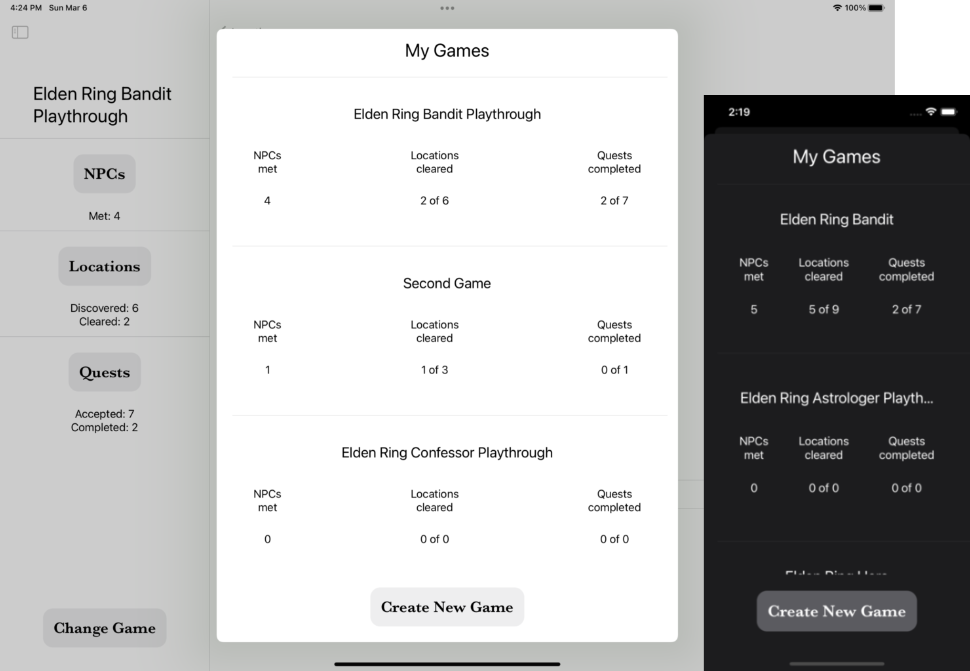
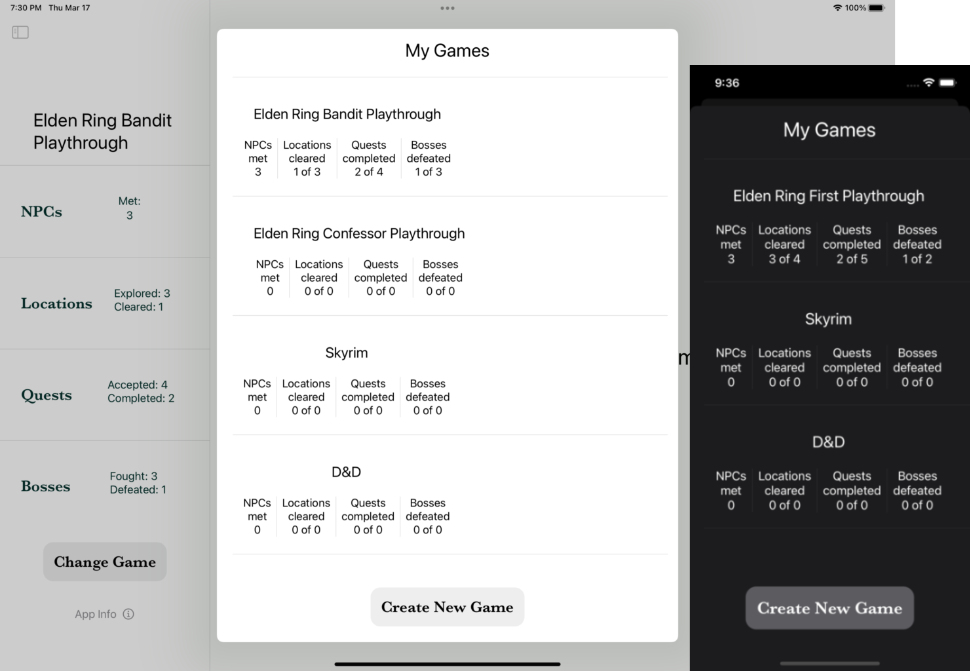
Add bosses to website, update screenshots, update feature requests

diff --git a/content/app/track-bosses/index.md b/content/app/track-bosses/index.md
@@ -1,0 +1,65 @@
+---
+title: "Track Bosses in your favorite RPGs"
+subtitle: "Details on tracking Bosses with the Shattered Ring app."
+excerpt: "Find out how you can use the Shattered Ring iOS App to track Bosses in your favorite
+RPGs."
+date: 2022-03-03
+author: "Dachary Carey"
+draft: false
+# tags:
+#   - style
+# categories:
+#   - Theme Features
+# layout options: single, single-sidebar
+layout: single
+---
+
+![Screenshot of Boss list on Shattered Ring app, iPad & iPhone](featured.png)
+
+Track bosses in Elden Ring, another RPG game, or your regular D&D game. You 
+can add notes for a boss, see the boss's location, and filter by 
+defeated or undefeated bosses.
+
+## View Bosses at-a-glance in the Boss list
+
+![Screenshot of Boss list on Shattered Ring app, iPhone](boss-list-dark-mode-simulator-cropped.png)
+
+From the Boss list, you can easily browse bosses and see at-a-glance which ones
+you have defeated. You can view all bosses by default, or filter the list to see 
+only defeated or undefeated bosses. A green crown icon at the right of a boss row 
+indicates the boss is defeated.
+
+The search field lets you find Bosses by name, _and_ it also searches the text of the 
+notes you've added for each boss. Read online about a legendary piece of loot a boss
+drops but aren't tough enough to beat it yet? Jot down the drop in the boss's notes
+and you can find which boss dropped it later by searching for it.
+
+## Track important Boss details
+
+![Screenshot of Boss details on Shattered Ring app, iPhone](boss-detail-light-mode-simulator-cropped.png)
+
+The Boss view is where you can store details about the bosses you're tracking. 
+
+The top part of the boss view contains a clickable toggle to keep track of whether you've defeated the boss.
+
+Below that, you'll see a boss's location, if you've added one. When you add a boss's location, you can 
+choose from an existing [Location](/app/track-locations/), or create a new one. Bosses only have one location.
+
+And finally, you'll see notes associated with your boss. You can add or edit notes from here. 
+The note area is a scrollable field, so there's no end to how much text you can have in the notes 
+for each boss.
+
+## Easily enter new Bosses
+
+![Screenshot of form to create a new Boss on Shattered Ring app, iPhone](new-boss-light-mode-simulator-cropped.png)
+
+Because Shattered Ring is a spoiler-free tracking app that does not come with pre-loaded data,
+I've made it as easy as possible to add details while you play.
+
+From the Boss list, click the plus icon in the upper-right corner of the screen to create a new boss. 
+
+In the new boss form, you can add a name, flip a toggle if the boss is defeated, and hit the `Create Boss` button. You can also add notes when you create the boss, or you can go back later and add them when viewing boss details.
+
+After you create the boss, you can go to the boss's detail view to add a location.
+
+If you create the boss from the location view, the boss is automatically populated with the location whose view you created the boss from.

diff --git a/content/faq/index.md b/content/faq/index.md
@@ -51,18 +51,21 @@ or send us an email via [the Support form](/contact/) to request a feature.
 When I have time to add new features to the app, I'll put up a Twitter
 poll to help me prioritize which features to add first.
 
-Currently, features that have been requested include (updated March 13, 2022):
+Currently, features that have been requested include (updated March 17, 2022):
 
 - Preload NPC, Location and Quests data for users to check off
 - Support for adding photos to NPCs, Locations and Quests
-- Add ordering for lists (alphabetical, and/or potentially the ability to move items in lists manually)
 - Link characters/locations/quests to their respective Wiki entries
-- Add the ability to track Bosses to the app
 - Add the ability to track Regions, with Locations belonging to a Region
-- Translate the Shattered Ring app to other languages
+- Translate the Shattered Ring app to other languages (so far I've had requests for Italian and French)
+- Add the ability to track Items, possibly with types like Weapon, Consumable, Key Item, Equipment, Spell, etc. Link them to locations and/or NPC merchants.
+- When adding a merchant, have a separate section for the merchant's inventory versus general notes.
+- Add types to locations, such as caves, forts, etc. in the location section
 
 Feature Requests Completed:
 - Add ability to to edit names of NPCs, Locations, and Quests: Release 1.1.0 adds the ability to edit names
+- Add ordering for lists (alphabetical, and/or potentially the ability to move items in lists manually): Release 1.2.0 adds the ability to sort lists alphabetically using the Sort toggle in the menu bar, or you can use the Edit button to manually drag items around in the list. Sort and Edit are mutually exclusive, so if you have the Sort toggle enabled, you won't see the Edit button - untoggle Sort if you want to drag an important item to the top of the list.
+- Add the ability to track Bosses to the app: Release 1.2.0 adds Bosses to the app; you can now create them, view them at locations, add notes to them, and track the ones you've defeated. The Game list now shows defeated vs. undefeated boss counts.
 
 I do intend to keep developing Shattered Ring as long as folks are interested
 in using it, so I'm happy to hear any feature requests you might

diff --git a/content/app/track-locations/index.md b/content/app/track-locations/index.md
@@ -22,6 +22,7 @@ Track important locations, including details like:
 - Amenities the location has, such as a merchant, blacksmith, or smith anvil
 - Notes
 - NPCs at the location
+- A Boss at the location
 
 ## View Locations at-a-glance in the Locations list
 
@@ -63,6 +64,8 @@ Below that, you'll see location notes, if you've added any. You can edit notes f
 You can view NPCs that are at the location, or add new NPCs when NPCs move around. You can click
 into an NPC at a location to view all of their details, such as notes or quests the NPC has given you. For more details, see: [NPCs](/app/track-npcs/).
 
+You can view a boss at the location, or add a new boss from the location view. You can click into a boss at a location to view notes you've saved about the boss, or to mark it defeated. For more details, see: [Bosses](/app/track-bosses/).
+
 ## Easily enter new Locations
 
 ![Screenshot of form to create a new Location called Siofra River on Shattered Ring app, iPhone](new-location-siofra-light-mode-simulator.png)
@@ -74,6 +77,6 @@ From the Location list, click the plus icon in the upper-right corner of the scr
 
 In the new location form, you can add as little as a name, flip a couple of toggles if the location is cleared, has a smith anvil, or has a merchant, and hit the `Create Location` button. You can also add notes when you create the location, or you can go back later and add them when viewing location details.
 
-After you create the location, you can go to the location's detail view to add NPCs.
+After you create the location, you can go to the location's detail view to add NPCs amnd bosses.
 
-If you create the location from the NPC view, the location is automatically populated with the NPC whose view you created the location from.
+If you create the location from the NPC or boss view, the location is automatically populated with the NPC or boss whose view you created the location from.

diff --git a/content/about/main/index.md b/content/about/main/index.md
@@ -9,6 +9,9 @@ intro: |
   I played Elden Ring for 2 hours with a notebook. I could barely make sense of my chicken scratches. I knew if I got 20 or 100 hours into the game, my notes would be a jumbled mess. That's what had happened with every D&D campaign where I've attempted to make notes about important NPCs, locations, or quests. 
 
   I wanted an iPhone app that would allow me to easily track NPCs, Locations, and Quests. I couldn't find one on the App Store, so I wrote one, modeled after a task tracker app. I designed it to be easy to enter, find, and update info about RPG games. It works great as a campaign tracker for D&D and other TTRPGs, too!
+
+  As folks have started using the app, they've been requesting new features. Boss tracking is one of them, and I'm working on rolling out more fan-requested features. See the [FAQ](/faq/) for a list
+  of current feature requests, and [follow Shattered Ring on Twitter](https://twitter.com/shattered_ring) to vote for the features you want to see in the app or find out what's coming in new releases.
 show_outro: true
 outro: |
   <i class="fas fa-glass-cheers pr2"></i>The Shattered Ring app is powered by SwiftUI and [MongoDB Realm](https://www.mongodb.com/realm).

diff --git a/content/_index.md b/content/_index.md
@@ -1,7 +1,7 @@
 ---
 title: "Shattered Ring"
 subtitle: "Track important info about your favorite RPGs"
-description: "Shattered Ring is the task tracker you didn't know you needed for Elden Ring. The Shattered Ring app is an RPG tracker to help you track notes for and the status of important NPCs, locations, and quests. Currently available for iOS, coming soon for Android."
+description: "Shattered Ring is the task tracker you didn't know you needed for Elden Ring. The Shattered Ring app is an RPG tracker to help you track notes for and the status of important NPCs, locations, quests, and bosses. Currently available for iOS, coming soon for Android."
 images:
   - img/cover-image-NPC-list-view.png
 image_left: false

diff --git a/content/app/_index.md b/content/app/_index.md
@@ -1,7 +1,7 @@
 ---
 title: The Shattered Ring App
 description: |
-  Shattered Ring is the task tracker you didn't know you needed for Elden Ring. The Shattered Ring iOS app is an RPG tracker to keep tabs on important NPCs, locations, and quests. 
+  Shattered Ring is the task tracker you didn't know you needed for Elden Ring. The Shattered Ring iOS app is an RPG tracker to keep tabs on important NPCs, locations, quests, and bosses. 
 author: "Dachary Carey"
 show_post_thumbnail: true
 thumbnail_left: true # for list-sidebar only

diff --git a/content/app/games/index.md b/content/app/games/index.md
@@ -25,4 +25,5 @@ like your regular D&D game, you can add new games to track them.
 The Games view gives you a nice roundup of stats from each playthrough.
 Completionists can appreciate clearing all of the locations or completing
 all of the quests in a game. And who wouldn't enjoy claiming bragging 
-rights over your friends about meeting more NPCs or clearing more locations?
+rights over your friends about meeting more NPCs, clearing more locations,
+or defeating more bosses?
